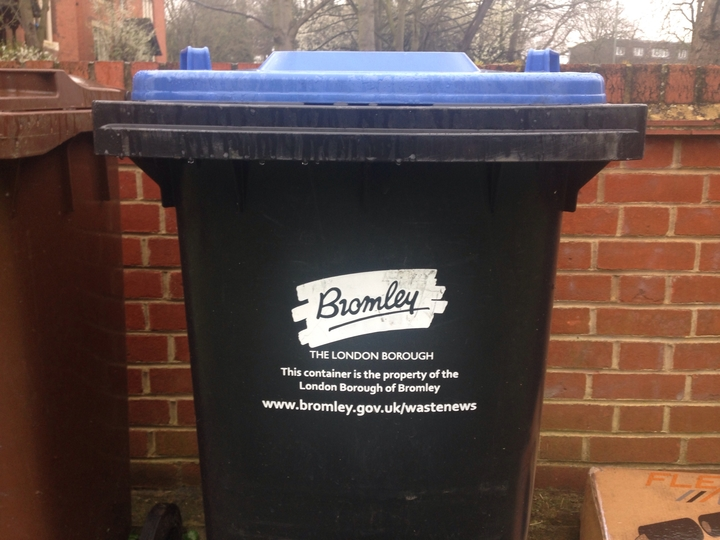
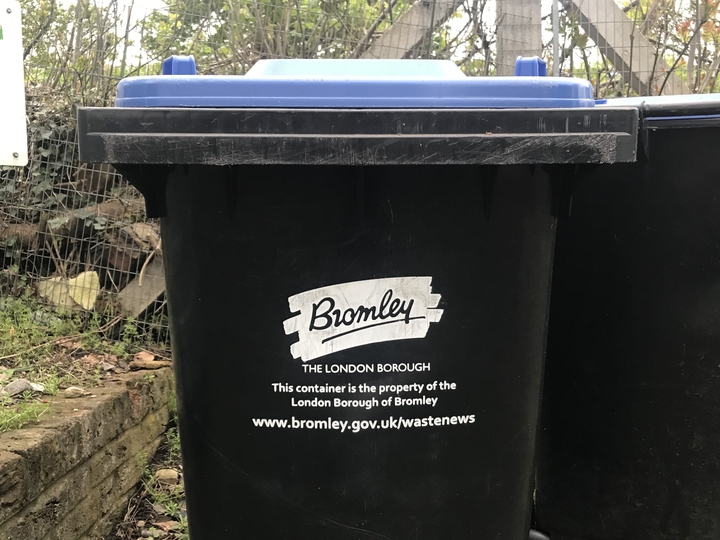
update Newham, Bromley, Croydon, Lewisham bins

diff --git a/index.html b/index.html
@@ -36,6 +36,30 @@
     			<div class="container-fluid">
 		    	<div class="row" style="padding-top: ">
 					<div class="col-sm-6 col-md-6 col-lg-4 bin">
+						<img src="images/Lewisham.jpg" class="img-responsive" alt="Responsive image">
+						<h3 id="council-name" data-local-authority-eng="LEW"></h3>
+						<p>29.4.2018</p>
+						<br>
+					</div>
+					<div class="col-sm-6 col-md-6 col-lg-4 bin">
+						<img src="images/Croydon.jpg" class="img-responsive" alt="Responsive image">
+						<h3 id="council-name" data-local-authority-eng="CRY"></h3>
+						<p>29.4.2018</p>
+						<br>
+					</div>
+					<div class="col-sm-6 col-md-6 col-lg-4 bin">
+						<img src="images/Bromley.jpg" class="img-responsive" alt="Responsive image">
+						<h3 id="council-name" data-local-authority-eng="BRY"></h3>
+						<p>29.4.2018</p>
+						<br>
+					</div>
+					<div class="col-sm-6 col-md-6 col-lg-4 bin">
+						<img src="images/Newham.jpg" class="img-responsive" alt="Responsive image">
+						<h3 id="council-name" data-local-authority-eng="NWM"></h3>
+						<p>29.4.2018</p>
+						<br>
+					</div>
+					<div class="col-sm-6 col-md-6 col-lg-4 bin">
 				      	<img src="images/Windsor-and-Maidenhead.jpg" class="img-responsive" alt="Responsive image">
 						<h3 id="council-name" data-local-authority-eng="WNM"></h3>
 						<p>7.4.2018</p>
@@ -605,12 +629,6 @@
 						<br>
 					</div>
 					<div class="col-sm-6 col-md-6 col-lg-4 bin">
-								<img src="images/Newham.jpg" class="img-responsive" alt="Responsive image">
-								<h3 id="council-name" data-local-authority-eng="NWM"></h3>
-								<p>12.3.2017</p>
-						<br>
-					</div>
-					<div class="col-sm-6 col-md-6 col-lg-4 bin">
 								<img src="images/Tower-Hamlets.jpg" class="img-responsive" alt="Responsive image">
 								<h3 id="council-name" data-local-authority-eng="TWH"></h3>
 								<p>12.3.2017</p>
@@ -623,18 +641,6 @@
 						<br>
 					</div>
 					<div class="col-sm-6 col-md-6 col-lg-4 bin">
-								<img src="images/Croydon.jpg" class="img-responsive" alt="Responsive image">
-								<h3 id="council-name" data-local-authority-eng="CRY"></h3>
-								<p>12.3.2017</p>
-						<br>
-					</div>
-					<div class="col-sm-6 col-md-6 col-lg-4 bin">
-								<img src="images/Bromley.jpg" class="img-responsive" alt="Responsive image">
-								<h3 id="council-name" data-local-authority-eng="BRY"></h3>
-								<p>12.3.2017</p>
-						<br>
-					</div>
-					<div class="col-sm-6 col-md-6 col-lg-4 bin">
 								<img src="images/Hounslow.jpg" class="img-responsive" alt="Responsive image">
 								<h3 id="council-name" data-local-authority-eng="HNS"></h3>
 								<p>19.2.2017</p>
@@ -643,12 +649,6 @@
 					<div class="col-sm-6 col-md-6 col-lg-4 bin">
 								<img src="images/Medway.jpg" class="img-responsive" alt="Responsive image">
 								<h3 id="council-name" data-local-authority-eng="MDW"></h3>
-								<p>18.1.2017</p>
-						<br>
-					</div>
-					<div class="col-sm-6 col-md-6 col-lg-4 bin">
-								<img src="images/Lewisham.jpg" class="img-responsive" alt="Responsive image">
-								<h3 id="council-name" data-local-authority-eng="LEW"></h3>
 								<p>18.1.2017</p>
 						<br>
 					</div>
